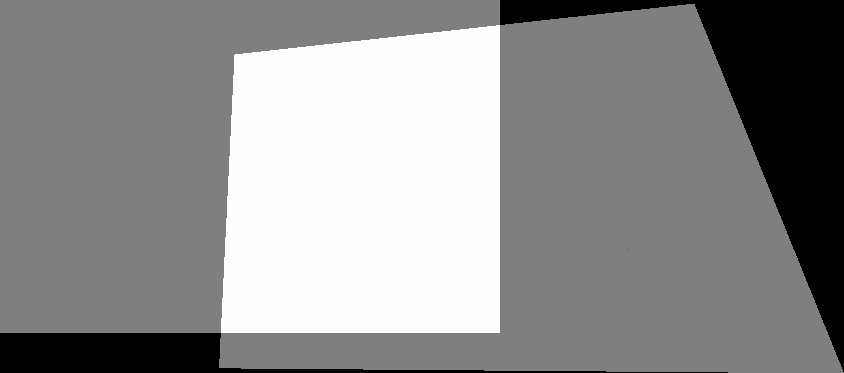
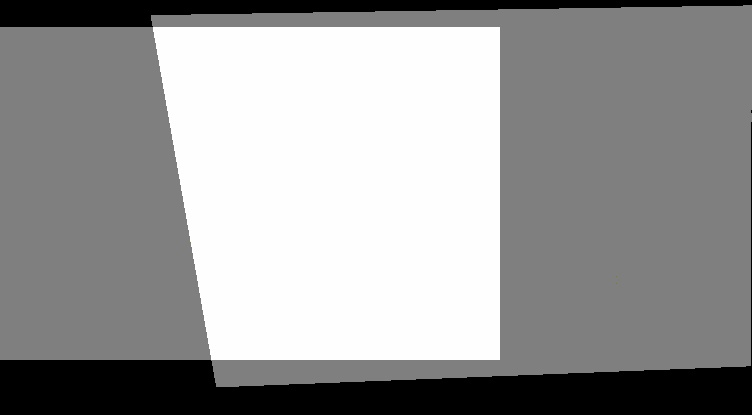
Bug fix

Changed region(s): [[0.0, 0.0, 1.0, 1.0]]

diff --git a/stitching_code.py b/stitching_code.py
@@ -155,10 +155,14 @@ for H in homographies:
     # Handle the case where the homography maps to negative coordinates
     # https://stackoverflow.com/questions/6087241/opencv-warpperspective
     fix_matrix = np.identity(3)
+    x_origin = 0
+    y_origin = 0
     if x_min_H < 0:
         fix_matrix[0,2] = -x_min_H
+        x_origin = int(-x_min_H)
     if y_min_H < 0:
         fix_matrix[1,2] = -y_min_H
+        y_origin = int(-y_min_H)
     H = np.matmul(H, fix_matrix)
         
     # Augment the image width and height to also incorporate the offset introduced above
@@ -168,13 +172,14 @@ for H in homographies:
     # Warp the image
     warped_image = cv2.warpPerspective(right_img1, H, (res_img_width, res_img_height))
     warped_image[warped_image != 0] = 1
-    warped_image[0:y_max, 0:x_max] += 1
-    # cv2.imwrite("overlap.jpg", warped_image*127) # Not needed. Just shows the intersection result
+    warped_image[y_origin:y_origin+y_max, x_origin:x_origin+x_max] += 1
+    cv2.imwrite("overlap.jpg", warped_image*127) # Not needed. Just shows the intersection result
     intersected_area = np.sum(warped_image == 2)
     total_area = np.sum(warped_image == 1) + intersected_area
 
     homographies_to_keep.append(intersected_area/total_area < overlap_threshold)
 
+homographies = homographies[homographies_to_keep]
 
 # Remove duplicates
 
